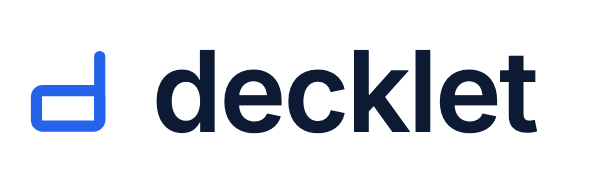
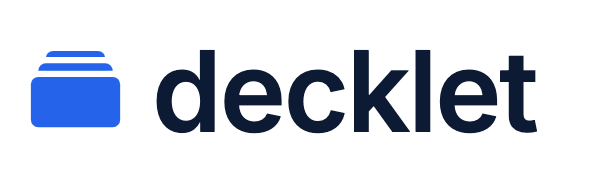
Brand: stack is the mark; SMIL loader cycles the deck (+GIF build for README)

Changed region(s): [[0.03, 0.25, 0.21, 0.6875]]

diff --git a/brand/README.md b/brand/README.md
@@ -3,18 +3,32 @@
 The logo mark and its generation pipeline. Selected 2026-08-23 from the
 candidate sheet in [docs/decklet-candidates.png](docs/decklet-candidates.png).
 
-## The mark — "dcard"
+## The mark — "stack"
 
-A lowercase **d** whose bowl is a 16:9 slide: the letter of the name and the
-unit of the product in one shape. One colour, no masks, no gradients; stroke
-4.5 on a 48-unit grid (favicon: 6, optical correction). Generated by
-`MARKS.dcard` in [build-logos.mjs](build-logos.mjs).
+Three 16:9 slides stacked back to front — a deck, small. One colour; the
+under-cards are cut with SVG masks (gap 2.5, favicon 3.5) so every asset is
+transparent-safe. 48-unit grid. Generated by `MARKS.stack` in
+[build-logos.mjs](build-logos.mjs).
+
+## The loader — cycling the deck
+
+<picture>
+  <source media="(prefers-color-scheme: dark)" srcset="assets/decklet-loader-dark.gif">
+  <img src="assets/decklet-loader-light.gif" width="96" height="96" alt="decklet loader: slides cycling through a stack">
+</picture>
+
+Each card advances one slot — the front card drops behind the deck while a new
+one fades in at the back. One step leaves the picture identical to the start,
+so a single step loops seamlessly (1.4 s). The under-card cuts carry the same
+keyframes as the cards cutting them. SMIL only (`assets/decklet-loader.svg`),
+so it animates inline, in `<img>`, and as a CSS background; the GIFs exist
+because GitHub's image proxy does not run SMIL.
 
 ## Decisions (2026-08-23)
 
 | # | Decision | Choice |
 | --- | --- | --- |
-| 1 | Mark | **F · dcard** over stack / fan / nib / roles / peek / file — only candidate that reads at 16 px *and* is ownable |
+| 1 | Mark | **A · stack** (Kyle, over dcard / nib / roles / peek / file) — the literal deck; dcard kept as `MARKS.dcard` |
 | 2 | Palette | grunion family: blue `#2563eb`, ink `#0c1b33`, cream `#e0dcd4`, sky `#60a5fa` (same as weave) |
 | 3 | App-icon tile | blue squircle (rx 11), cream mark |
 | 4 | Lockup | inline, mark scaled to the wordmark's ascender height, "decklet" lowercase 600, −0.02em |
@@ -29,6 +43,8 @@ unit of the product in one shape. One colour, no masks, no gradients; stroke
 | `decklet-tile.svg` | app icon |
 | `decklet-favicon.svg` | 16–32 px |
 | `decklet-lockup.svg` / `-dark.svg` | mark + wordmark |
+| `decklet-loader.svg` / `-cream.svg` | SMIL loader (canonical) |
+| `decklet-loader-light.gif` / `-dark.gif` | README / proxies without SMIL |
 
 ## Regenerate
 
@@ -38,5 +54,7 @@ node brand/build-logos.mjs docs --candidates   # candidate sheet
 node --test brand/build-logos.test.mjs
 ```
 
-PNG previews: `node brand/render-png.mjs in.svg out.png [scale]` (Playwright
-Chromium — ImageMagick drops SVG masks).
+PNG previews: `node brand/render-png.mjs in.svg out.png [scale]`; GIFs:
+`node brand/render-gif.mjs` (steps the SVG's own SMIL clock, then ffmpeg).
+Both use Playwright Chromium — ImageMagick drops SVG masks. Env: `PW_ROOT`
+(dir holding `node_modules/playwright`), `CHROME` (executable), `FFMPEG`.

diff --git a/README.md b/README.md
@@ -1,3 +1,8 @@
+<picture>
+  <source media="(prefers-color-scheme: dark)" srcset="brand/assets/decklet-loader-dark.gif">
+  <img src="brand/assets/decklet-loader-light.gif" width="72" height="72" alt="">
+</picture>
+
 # decklet
 
 Agent-generated, brand-true, real-time editable presentations and assets — one portable HTML file, no office suite.
